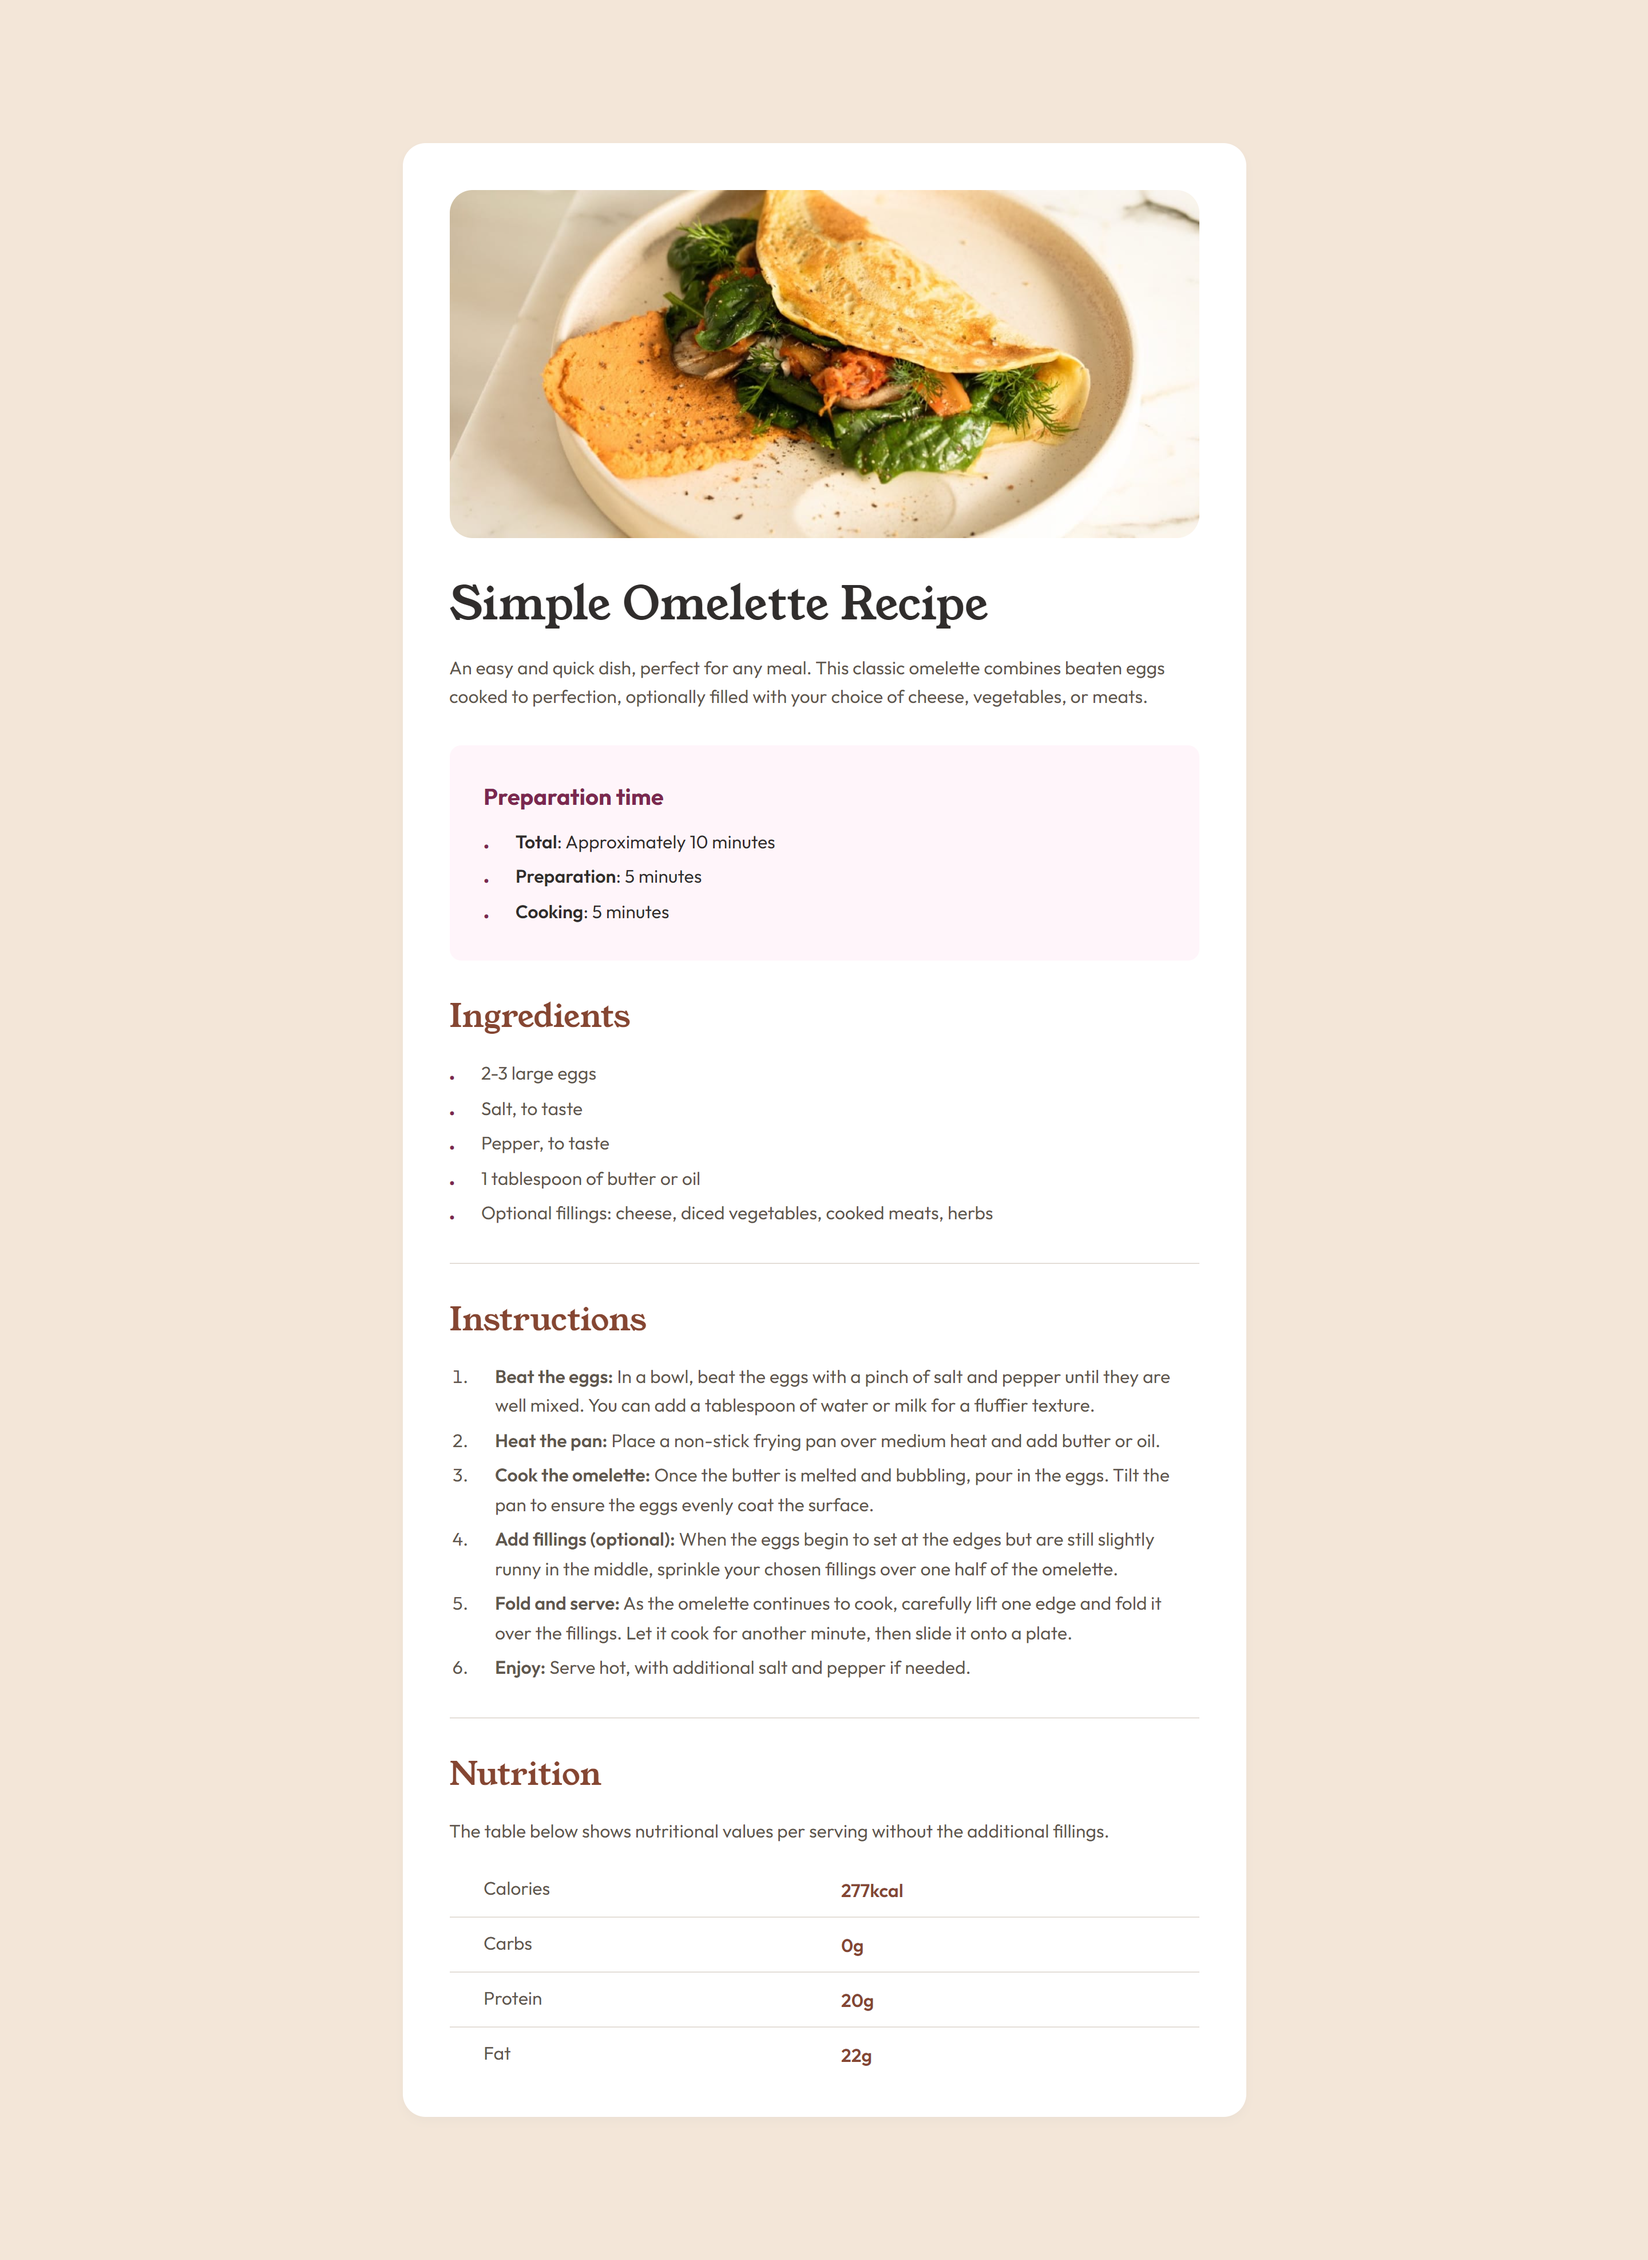
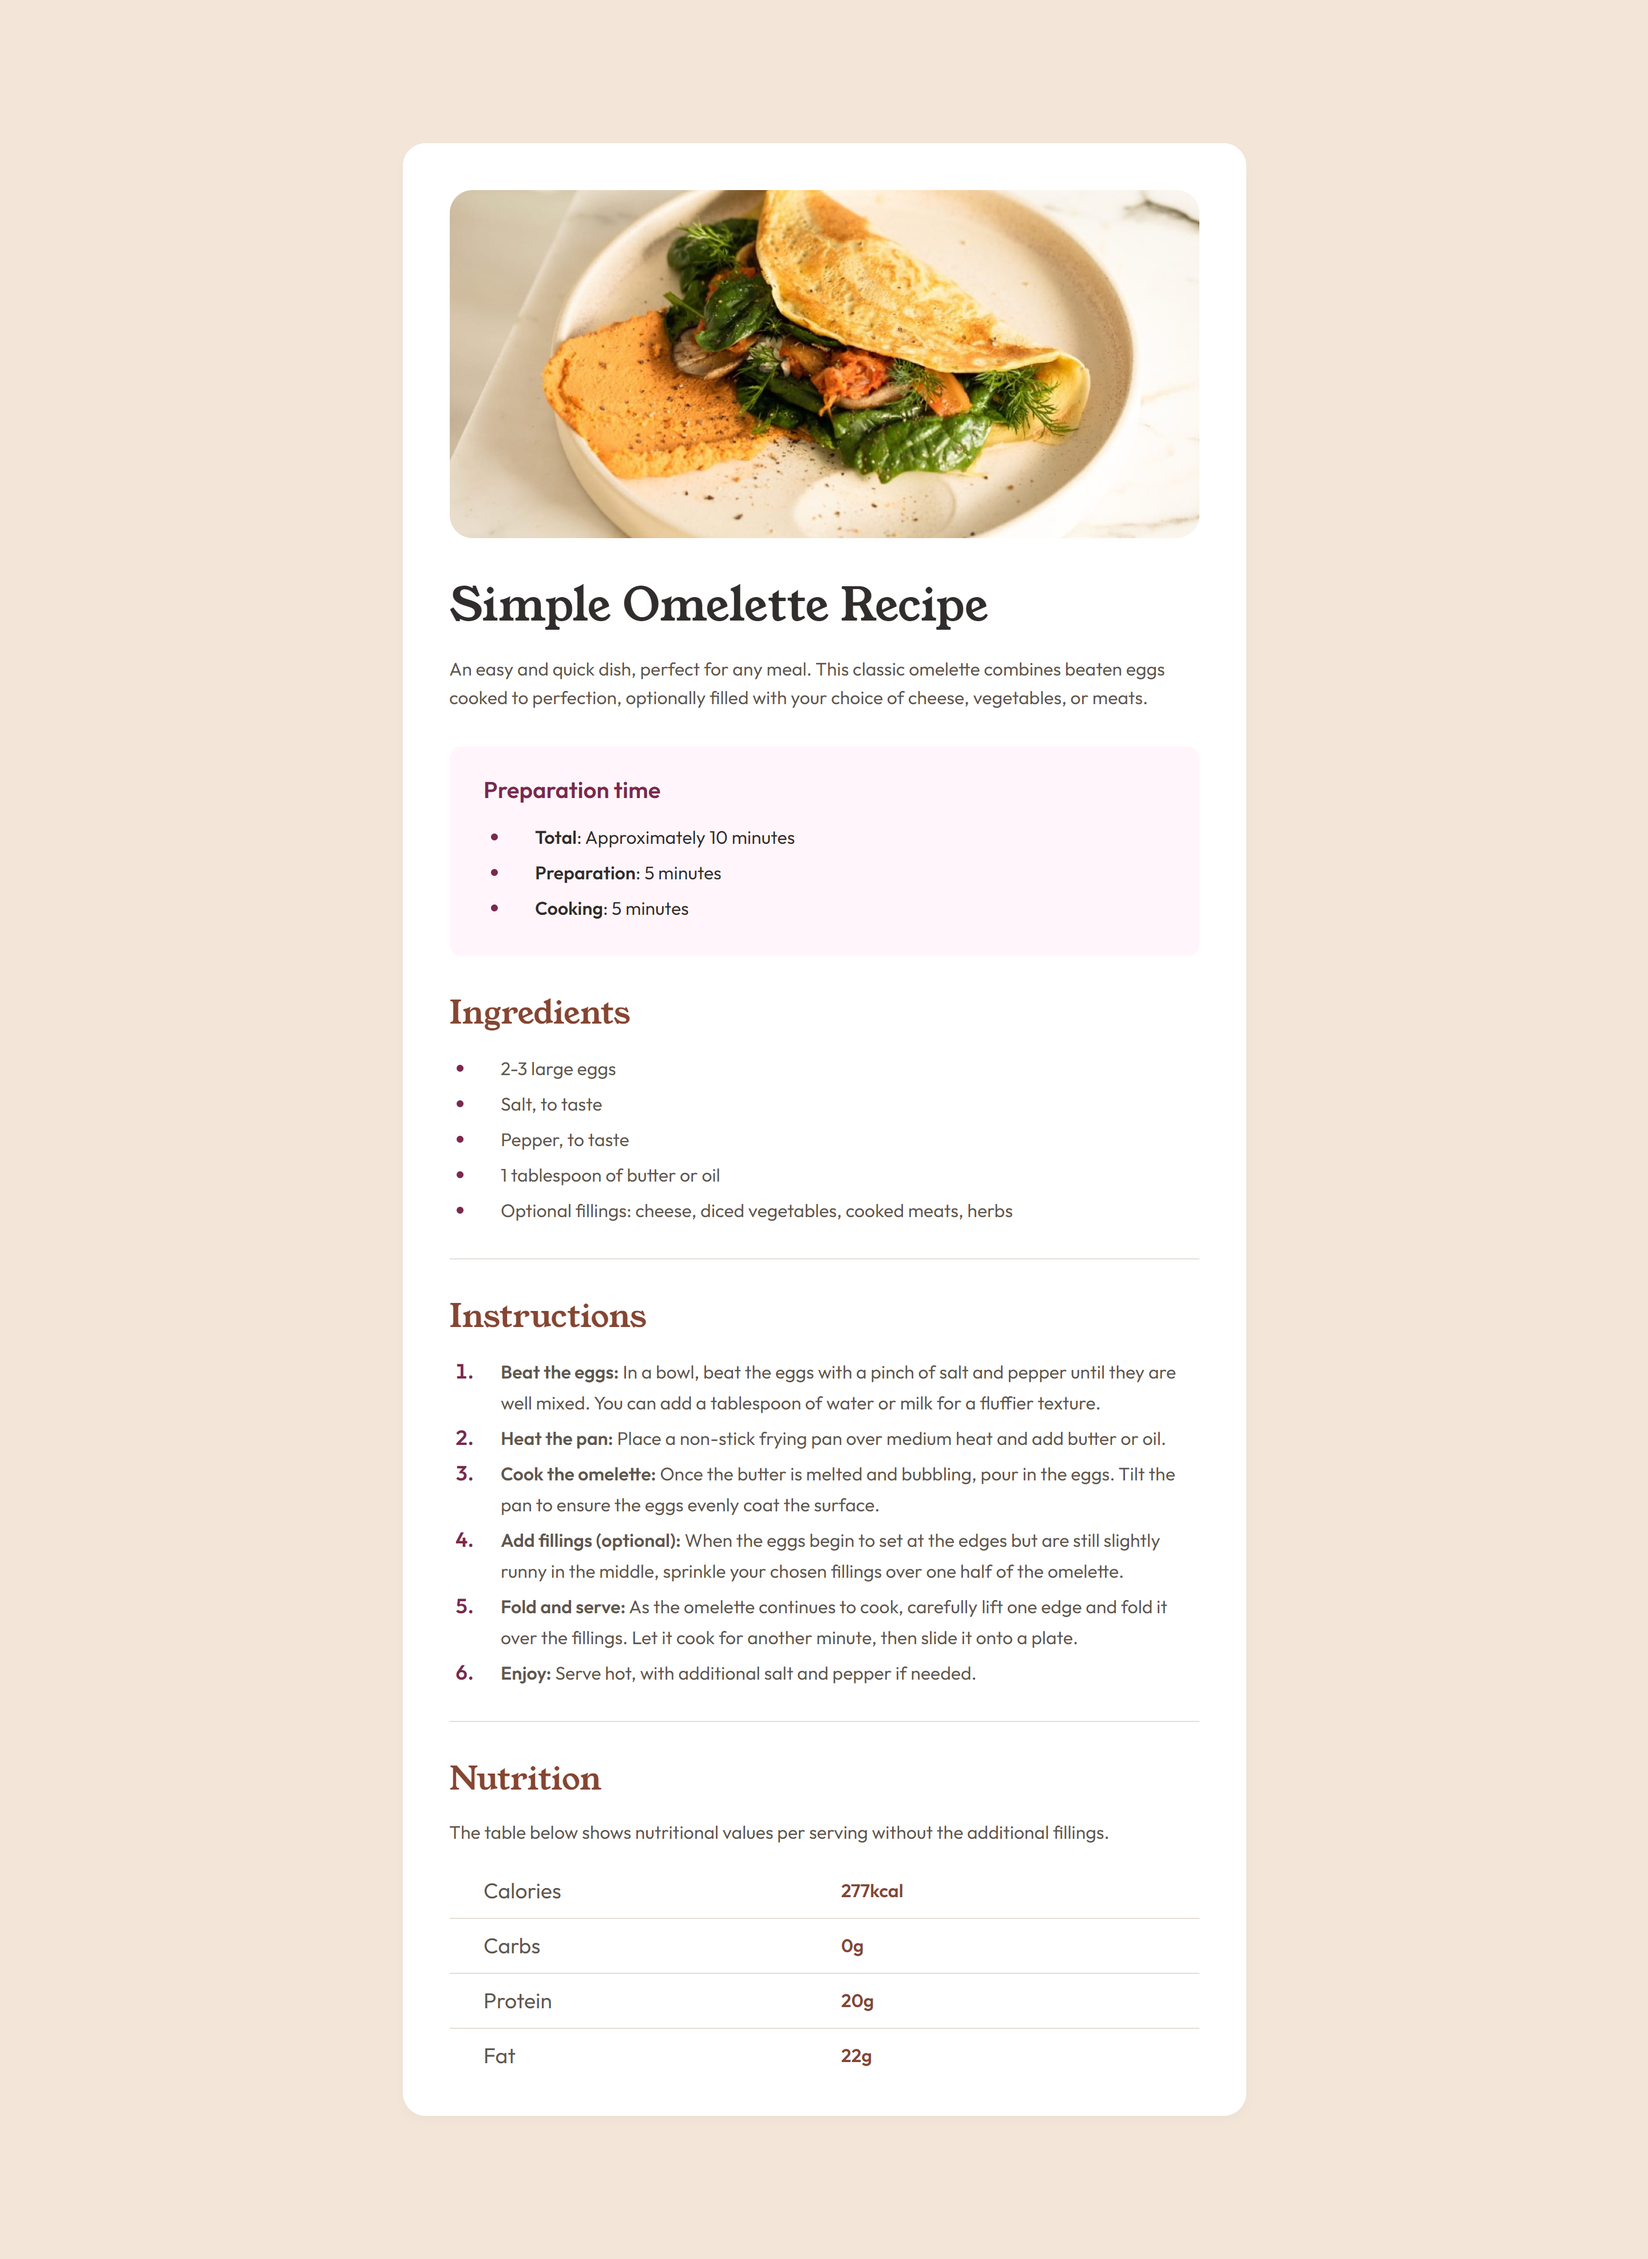
Refactor style and take another screenshot

diff --git a/style.css b/style.css
@@ -81,7 +81,7 @@ main {
   background-color: var(--white);
   width: 737px;
   border-radius: 20px;
-  padding-bottom: 33px;
+  padding-bottom: 30px;
   box-shadow: 0 4px 8px rgba(172, 172, 172, 0.1);
 }
 
@@ -94,9 +94,7 @@ main {
 
 @media (min-width: 740px) {
   .image-container {
-    padding-top: 41px;
-    padding-left: 41px;
-    padding-right: 41px;
+    padding: 41px 41px 0;
   }
 
   .image-container img {
@@ -106,8 +104,7 @@ main {
 
 section,
 header {
-  margin-left: 41px;
-  margin-right: 41px;
+  margin: 0 41px;
 }
 
 img {
@@ -122,7 +119,7 @@ header h1 {
   font-size: 40px;
   color: var(--stone-900);
   font-weight: 400;
-  padding-bottom: 16px;
+  padding-bottom: 15px;
 }
 
 .ingredients h2,
@@ -132,13 +129,12 @@ header h1 {
   font-size: 28px;
   color: var(--brown-800);
   font-weight: 400;
-  padding-bottom: 16px;
+  padding-bottom: 15px;
 }
 
 article h2 {
   color: var(--rose-800);
-  padding-bottom: 15px;
-  padding-top: 15px;
+  padding: 15px 0;
   font-size: 20px;
 }
 
@@ -161,36 +157,19 @@ p {
 }
 
 /* Lists */
-ul {
-  padding-bottom: 25px;
-  list-style-type: none;
-}
-
-ul li::before {
-  content: ". ";
-  color: var(--rose-800);
-  margin-right: 20px;
-  font-weight: 600;
-}
-
+ul,
 ol {
-  padding-left: 20px;
-  padding-bottom: 25px;
-}
-
-.ingredients ul {
   padding-bottom: 25px;
 }
 
 li {
-  line-height: 27.3px;
+  line-height: 27px;
   padding-bottom: 3px;
+  padding-left: 20px;
+  margin-left: 25px;
 }
 
-ol li {
-  padding-left: 20px;
-}
-ol li::marker {
+::marker {
   color: var(--rose-800);
   font-weight: 600;
   font-size: 18px;
@@ -206,16 +185,14 @@ ol li::marker {
 .row h3,
 .last-row h3 {
   flex: 1;
-  padding-top: 11px;
-  padding-bottom: 11px;
+  padding: 11px 0;
   font-weight: 400;
 }
 
 .row p,
 .last-row p {
   flex: 1;
-  padding-top: 11px;
-  padding-bottom: 11px;
+  padding: 11px 0;
   color: var(--brown-800);
   font-weight: 600;
 }
